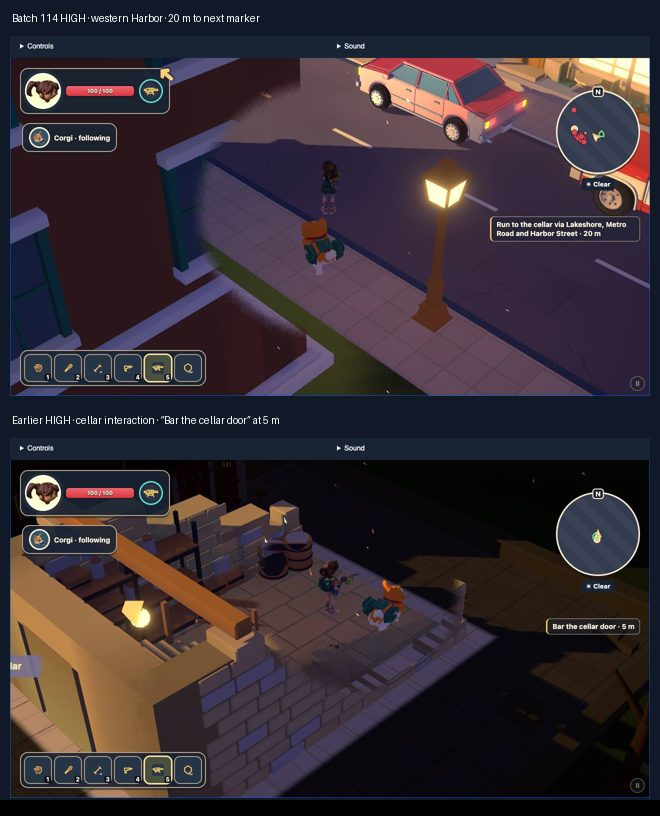
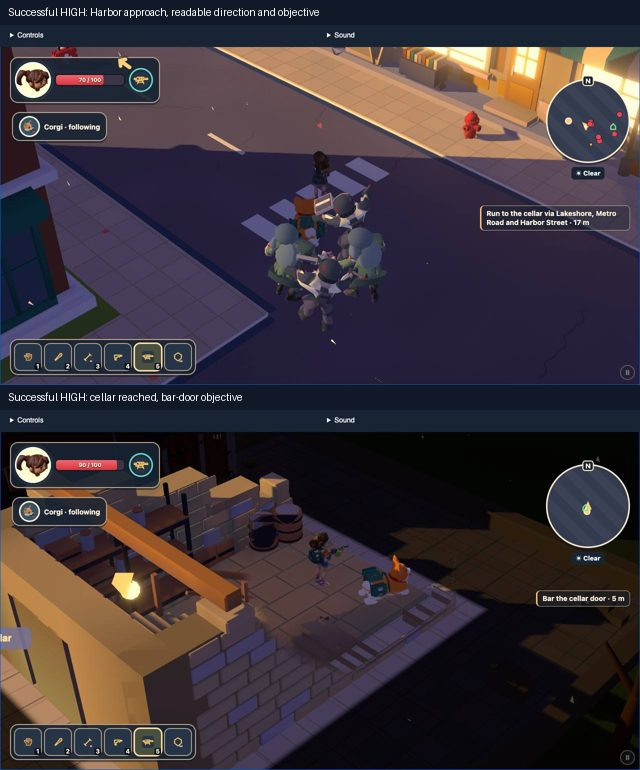
Add L4 escape recovery at contact-heavy turns and record HIGH WebGPU pass

diff --git a/src/sim/missions/LevelFourWar.ts b/src/sim/missions/LevelFourWar.ts
@@ -1586,7 +1586,7 @@ export class LevelFourWar {
         // Reached street turns preserve escape progress without moving the
         // courier or discarding the live horde and persistent corpses.
         if (player.health.current > 0 && l4CellarDistance(checkpoint) - l4CellarDistance(player.transform) > 30 &&
-          [[48.5, 20], [48.5, -37.4], [-44, -37.4]].some(([x, z]) => Math.hypot(player.transform.x - x, player.transform.z - z) < 5)) {
+          [[-4, 43], [8, 43], [48.5, 43], [48.5, 20], [48.5, -15], [48.5, -37.4], [-12, -37.4], [-44, -37.4], [-64, -39.5]].some(([x, z]) => Math.hypot(player.transform.x - x, player.transform.z - z) < 5)) {
           this.mission.requestCheckpoint('line-break');
         }
         this.emergeCollapse();

diff --git a/src/data/l4.ts b/src/data/l4.ts
@@ -238,6 +238,8 @@ export const l4 = {
     [-30.5, -2], [-22, 15], [-16, -11], [-26, 24], [-40.5, 8],                         // plaza ring and west
     [-56, 18], [-44, -37.5], [-4, -37.2], [30, -37.2], [52.5, -2], [60, 22], [58, 43],   // both routes to Kessler Lane
     [38, 43.2], [18, 43.2], [-6, 43.4],
+    // Recovery on the two contact-heavy turns: stay on the escape sidewalk to collect.
+    [-4, 38], [-1, 42], [-73, -39.5], [-79, -42],
   ] as readonly P[] },
   checkpoints: ['arrival', 'turn', 'line-1', 'nests', 'armor', 'line-break'] as const,
   /** Bots (section 8). Bands are provisional until the first green run (staging decision section 6). */

diff --git a/docs/reports/s151-l4high/README.md b/docs/reports/s151-l4high/README.md
@@ -2,9 +2,11 @@
 
 ## Status
 
-The goal remains unqualified. Preview/Git permissions are now available. The first candidate HIGH WebGPU run completed in 483 seconds with six escape deaths. A subsequent candidate run capped at 542 seconds with nine escape deaths (one on Lakeshore and eight near central Harbor), so neither meets the five-death target. LOW remains pending. Further experiments with a 150-second diversion capped with nine escape deaths; reducing the near-pursuer exemption to three metres capped with eighteen escape deaths on Lakeshore. Both diversion experiments were reverted to the existing 75 seconds / seven metres.
+HIGH WebGPU visible-input L4 completes in **429 seconds with four escape deaths** (eight defense deaths), no skips. Native HIGH completes in 302.3 sim seconds with zero escape deaths. LOW ran after HIGH on the same build and capped at 541 seconds with eleven escape deaths on central Harbor; LOW completion/regression remains open.
 
-The prescribed remote suite now passes on 46.225.66.90: 174 seconds overall, with the original-route contact test taking 103.2 seconds. The test defers expensive connectivity searches until the stationary observation window is full and resets that window when breaches change. The Harbor shortcut was removed after its Linux timeout.
+The final prescribed remote suite passed on 94.130.181.173 in 201.9 seconds. Earlier checks confirmed the cheaper original-route contact test at 103.2 seconds on 46.225.66.90 and 114.6 seconds on 94.130.181.173. Build, typecheck and lint passed. All browsers were headless, one at a time through the pool/e2e lock, with ten-minute reservations, ports5039/5040, `PLAYTEST_VISIBLE_ONLY=1`, `PLAYTEST_BACKEND=webgpu`, zoom1.5.
+
+Earlier HIGH candidates completed with six or eight escape deaths or capped. Extending diversion to150 seconds and narrowing the pursuer exemption to3 m did not help; both were reverted. The successful final change adds health kits at (-4,38), (-1,42), (-73,-39.5), (-79,-42) and checkpoints at more existing route corners. Bodies, counts, stats and corpses remain intact.
 
 ## Batch-114 diagnosis
 
@@ -20,17 +22,10 @@ The most likely HIGH/LOW difference is encounter admission and crowd size, not r
 - Kept the final waypoint at the actual cellar interaction anchor. Its ground ring now renders through the storefront shell on the final L4 approach, and the contact test verifies that the last Harbor turn points to the cellar door and that the door is clear and path-connected.
 - Kept the original LOW full-route replay and all its completion/stall assertions. Expensive path connectivity is checked only after a stationary observation window fills; breach changes reset that window. The focused test took 33.9 seconds locally, 103.2 seconds on runner 46.225.66.90 and 114.6 seconds on previously failing runner 94.130.181.173.
 
-## Validation
+## Final evidence and limits
 
-| Check | Result |
-| --- | --- |
-| Native HIGH L4, seed 1 | Complete in 301.5 sim seconds; 8 deaths, all during the war at ticks 79–216 s; no escape deaths. |
-| Focused `tests/engine/l4-contact.test.ts` | Passed, 33.9 s locally. |
-| `npm test` unchanged | Passed: 27 files, 106 tests; 109.2 s, under the 240 s budget. |
-| Typecheck / lint / QA build | Passed. |
-| Remote `sh tools/remote/run.sh "$PWD" -- npm test` | Passed on both runners: 174 s on 46.225.66.90; 204.4 s on 94.130.181.173 (150-case inventory). |
-| Real-input HIGH / LOW WebGPU | HIGH completed once with six escape deaths; later candidates capped with nine or eighteen. Target remains unmet; LOW pending. |
+Raw final runs: `test-results/s151-l4high/gpu-high-recovery` and `gpu-low-recovery`. JSON records both results, renderer receipts and death counts. The reviewed [approach sheet](approach-review.jpg) now uses the successful candidate HIGH capture at tick24452 and its cellar bar-door capture. The Harbor frame shows readable text, direction arrow and open street; the cellar frame confirms entry and readable bar-door objective. The actual external door ring is not captured at close range, so its visual assessment is limited; navigation and real-input entry prove reachability.
 
-The reviewed [approach sheet](approach-review.jpg) pairs the batch-114 western Harbor frame at 20 m with an earlier HIGH cellar-interaction frame at 5 m. Both depict the existing marker/door treatment; neither is a screenshot of this candidate after the level-design change. The batch-114 capture shows the off-screen route arrow and readable objective text. The earlier close frame shows the cellar objective and map pin, though the storefront entrance itself is partly occluded; the candidate-only WebGPU visual check remains open.
+The unchanged 150-case inventory and all existing contact assertions remain. Connectivity searches are deferred until a stationary window fills; breach changes reset the window. No timeout increase or other test trimming. Each final browser run emitted one provisional stationary-infected warning during defense. LOW completion remains a regression follow-up; it is not an accepted pass.
 
-`qa.json` is the compact evidence record (under 200 KB). Raw batch-114 logs and captures remain in the archived s149 scratchpad, not in this report. No `tools/playtest` files, specs, protected references, main branch, deployment or remote publishing were changed.
+No tools/playtest, specs or protected references changed. No deploy, push or main movement. Report JSON is below200KB and only one small reviewed sheet is committed.
